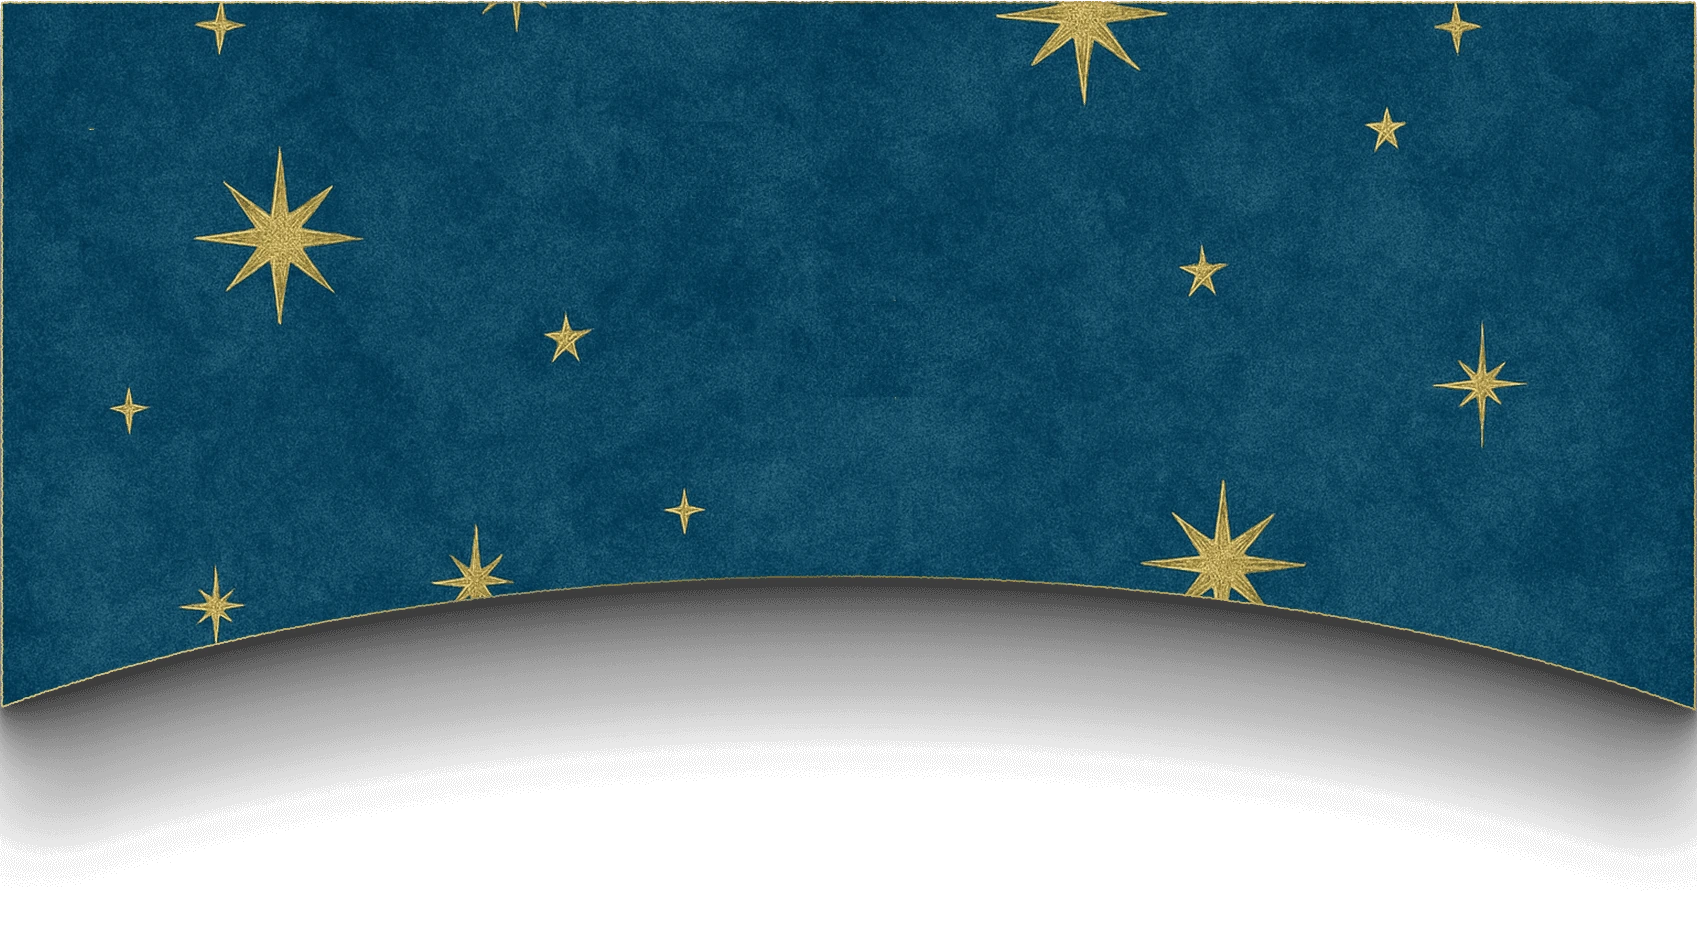
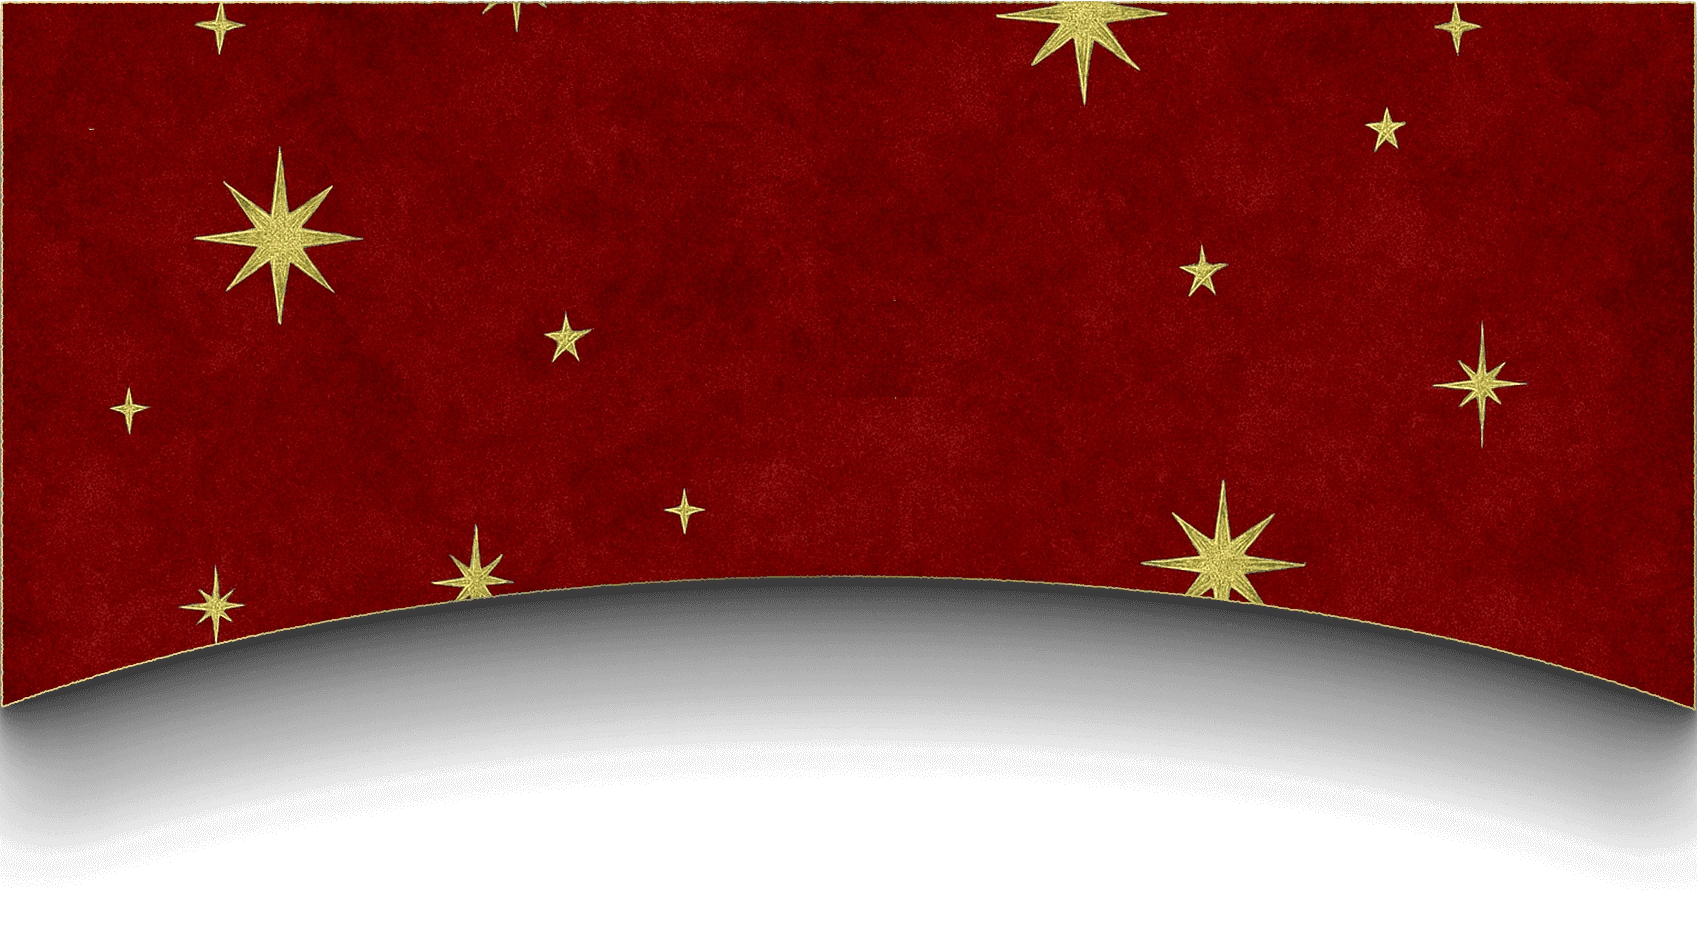
updated images and colors

diff --git a/src/components/ThingsKnow.jsx b/src/components/ThingsKnow.jsx
@@ -9,7 +9,7 @@ export default function ThingsKnow() {
     <div className="min-h-[200vh]  w-full h-fit max-md:h-[300vh] relative">
       <div className="h-full  w-full absolute inset-0">
         <Image
-          src="/img/purpleBg.avif"
+          src="/img/webp/purpleBg.webp"
           alt="seeTheRoute"
           width={1000}
           height={1000}
@@ -19,10 +19,10 @@ export default function ThingsKnow() {
 
       <div className="h-full w-full gap-[2vw] overflow-x-hidden max-md:gap-[10vw] py-[10vw] max-md:absolute max-md:top-[-4%] left-0 flex items-center justify-center flex-col relative ">
         <RotationComponent
-          wheelImage="https://framerusercontent.com/images/hs1j6Q8y9Mo9x9ueuW8MFIfK4.png?scale-down-to=2048&width=2168&height=2168"
-          centerImage="https://framerusercontent.com/images/KBiow1jmaeWHazxshSNGQ08lvw.png?width=1814&height=1814"
-          iconImage="https://framerusercontent.com/images/GUNxHDQlW7tXOiQkxIgQNaqyQVw.png?width=512&height=512"
-          textColor="text-secondary"
+          wheelImage="/img/webp/wheel2/redwheel-2.png"
+          centerImage="/img/webp/wheel2/yellow-cover.png"
+          iconImage="/img/webp/wheel2/red-design.png"
+          textColor="text-[#a20601]"
           title="Things to"
           titleLine2="know"
           subtitle="Click to open the map"
@@ -30,7 +30,7 @@ export default function ThingsKnow() {
 
         <div className="h-auto fadeup w-[7vw] max-md:w-[20vw] rounded-full aspect-square relative">
           <img
-            src="https://framerusercontent.com/images/BS00HRHT5NWobvzo4WjW9UA763g.png?width=380&height=380"
+            src="/img/webp/wheel3/yellow-design.png"
             alt="moon"
             width={1000}
             height={1000}
@@ -41,12 +41,12 @@ export default function ThingsKnow() {
           MEET THE
         </p> */}
         <Copy>
-          <p className="text-[#f6e1ba] text-center text60  leading-[.8] text-center">
+          <p className="text-primary text-center text60  leading-[1.2] text-center">
             Things to <br /> know
           </p>
         </Copy>
         <CopyLines>
-          <p className="text-[#f6e1ba] w-[60%] max-md:w-[90%] leading-[1.2] text-center text30">
+          <p className="text-primary w-[60%] max-md:w-[90%] leading-[1.2] text-center text30">
             To help you feel at ease and enjoy every moment of the celebrations,
             we’ve gathered a few thoughtful details we’d love for you to know
             before the big day.
@@ -56,25 +56,25 @@ export default function ThingsKnow() {
         <div className="w-[80%] flex items-center gap-[4vw] max-md:gap-[15vw] max-md:flex-col justify-center mt-[5vw]">
           {[
             {
-              icon: "/img/hastag.avif",
+              icon: "/img/webp/hastag.png",
               title: "Hashtag",
               description:
                 "Use #thebestmarathon to share your journey runners.",
             },
             {
-              icon: "/img/sun.avif",
+              icon: "/img/webp/sun.png",
               title: "Hashtag",
               description:
                 "Use #thebestmarathon to share your journey runners.",
             },
             {
-              icon: "/img/card.avif",
+              icon: "/img/webp/card.png",
               title: "Hashtag",
               description:
                 "Use #thebestmarathon to share your journey runners.",
             },
             {
-              icon: "/img/parking.avif",
+              icon: "/img/webp/parking.png",
               title: "Hashtag",
               description:
                 "Use #thebestmarathon to share your journey runners.",
@@ -82,7 +82,7 @@ export default function ThingsKnow() {
           ].map((item, index) => (
             <div
               key={index}
-              className="w-full !text-[#f6e1ba] fadeup text-center flex flex-col items-center justify-center"
+              className="w-full !text-primary fadeup text-center flex flex-col items-center justify-center"
             >
               <div className="w-[5vw] max-md:w-[25vw] h-auto ">
                 <Image
@@ -93,8 +93,8 @@ export default function ThingsKnow() {
                   className="w-full h-full object-contain"
                 />
               </div>
-              <p className="!text-[#f6e1ba] text30 mt-[.6vw]">{item.title}</p>
-              <p className="!text-[#f6e1ba] max-md:w-[60%] text18 leading-[.9] mt-[.5vw] w-[80%]">
+              <p className="!text-primary text30 mt-[.6vw]">{item.title}</p>
+              <p className="!text-primary max-md:w-[60%] text18 leading-[.9] mt-[.5vw] w-[80%]">
                 {item.description}
               </p>
             </div>

diff --git a/src/components/Swiper1.jsx b/src/components/Swiper1.jsx
@@ -20,9 +20,9 @@ export default function Swiper1() {
   return (
     <div className="h-auto w-full max-md:w-[200%] max-md:translate-x-[-25%] mt-[-5vw] relative">
       <img
-        src="https://framerusercontent.com/images/ZcRhO3OIg6FxXJGYnWlxDDJdt00.png?width=1123&height=1123"
+        src="/img/webp/red-swiper-frame.png"
         alt="background"
-        className="w-full h-full object-contain"
+        className="w-full h-full object-contain brightness-80"
       />
       <div className="h-[30vw] w-[24vw] max-md:w-[50vw] max-md:h-[65vw] rounded-full bg-zinc-900 overflow-hidden border-4 border-secondary swiperimages z-2 absolute top-[48.5%] left-1/2 -translate-x-1/2 -translate-y-1/2">
         <Swiper
@@ -54,7 +54,7 @@ export default function Swiper1() {
       {/* Custom Navigation Buttons */}
       <button
         onClick={() => swiper?.slidePrev()}
-        className="absolute left-[5%] cursor-pointer top-1/2 max-md:top-[85%] max-md:left-[32%] -translate-y-1/2 z-10 w-[4vw] max-md:w-[10vw] h-[4vw] max-md:h-[10vw] rounded-full bg-[#003f6b] text-white flex items-center justify-center hover:bg-opacity-80 transition-all duration-300 "
+        className="absolute left-[5%] cursor-pointer top-1/2 max-md:top-[85%] max-md:left-[32%] -translate-y-1/2 z-10 w-[4vw] max-md:w-[10vw] h-[4vw] max-md:h-[10vw] rounded-full bg-[#a20601] text-white flex items-center justify-center hover:bg-opacity-80 transition-all duration-300 "
       >
         <img
           src="/img/Unc/arrow.svg"
@@ -64,7 +64,7 @@ export default function Swiper1() {
       </button>
       <button
         onClick={() => swiper?.slideNext()}
-        className="absolute right-[5%] max-md:right-[32%] max-md:top-[85%] cursor-pointer top-1/2 -translate-y-1/2 z-10 max-md:w-[10vw] max-md:h-[10vw] w-[4vw] h-[4vw] rounded-full bg-[#003f6b] text-white flex items-center justify-center hover:bg-opacity-80 transition-all duration-300 "
+        className="absolute right-[5%] max-md:right-[32%] max-md:top-[85%] cursor-pointer top-1/2 -translate-y-1/2 z-10 max-md:w-[10vw] max-md:h-[10vw] w-[4vw] h-[4vw] rounded-full bg-[#a20601] text-white flex items-center justify-center hover:bg-opacity-80 transition-all duration-300 "
       >
         <img
           src="/img/Unc/arrow.svg"

diff --git a/src/components/SeeTheRoute.jsx b/src/components/SeeTheRoute.jsx
@@ -10,7 +10,7 @@ export default function SeeTheRoute() {
     <div className="min-h-[250vh] w-full h-fit relative max-md:flex max-md:flex-col max-md:justify-end max-md:min-h-[240vh] max-md:w-screen  ">
       <div className="h-full  w-full absolute inset-0">
         <Image
-          src="/img/greenbg.avif"
+          src="/img/webp/greenbg.webp"
           alt="seeTheRoute"
           width={1000}
           height={1000}
@@ -23,7 +23,7 @@ export default function SeeTheRoute() {
 
         <div className="h-auto fadeup w-[7vw] rounded-full aspect-square relative">
           <img
-            src="https://framerusercontent.com/images/NmVSVg1aTrcYbgmRoP9eOE9gpw.png?width=372&height=372"
+            src="/img/webp/wheel1/red-design.png"
             alt="moon"
             width={1000}
             height={1000}
@@ -31,17 +31,17 @@ export default function SeeTheRoute() {
           />
         </div>
         <Copy>
-          <p className="text-secondary text-[3vw] max-md:text-[8vw] font-normal ">
+          <p className="text-[#a20601] text-[3vw] max-md:text-[8vw] font-normal ">
             MEET THE
           </p>
         </Copy>
         <Copy>
-          <p className="text-secondary text60 font-thin max-md:mt-[5vw] leading-[.8] text-center">
+          <p className="text-[#a20601] text60 font-thin max-md:mt-[5vw] leading-[.8] text-center">
             Bride & <br /> Groom
           </p>
         </Copy>
         <CopyLines>
-          <p className="text-secondary w-[45%] mt-[1vw] max-md:mt-[5vw] leading-[1.2]  max-md:w-[80%] font-semibold  text-center text18">
+          <p className="text-[#a20601] w-[45%] mt-[1vw] max-md:mt-[5vw] leading-[1.2]  max-md:w-[80%] font-semibold  text-center text18">
             We are both so delighted that you are able to join us in celebrating
             what we hope will be one of the happiest days of our lives. The
             affection shown to us by so many people since our roka has been

diff --git a/src/components/Footer.jsx b/src/components/Footer.jsx
@@ -11,7 +11,7 @@ export default function Footer() {
     <div className="min-h-[160vh] max-md:min-h-[160vh] max-md:justify-end max-md:pb-[15vh] flex flex-col py-[5vw] items-center justify-between w-full relative">
       <div className="h-full w-full absolute inset-0">
         <Image
-          src="/img/yellowbg.avif"
+          src="/img/webp/yellowbg.webp"
           alt="seeTheRoute"
           width={1000}
           height={1000}
@@ -24,10 +24,10 @@ export default function Footer() {
         <RotationComponent
           scale="max-md:scale-200"
           isScale={true}
-          wheelImage="/img/yellowwheel.avif"
-          centerImage="/img/yellowbglayer.avif"
-          iconImage="https://framerusercontent.com/images/BS00HRHT5NWobvzo4WjW9UA763g.png?width=380&height=380"
-          textColor="text-[#dfdac1]"
+          wheelImage="/img/webp/wheel3/yellowwheel.png"
+          centerImage="/img/webp/wheel3/yellowbglayer.png"
+          iconImage="/img/webp/wheel3/yellow-design.png"
+          textColor="text-primary"
           title="The countdown"
           titleLine2="route"
           subtitle="Click to open the map"
@@ -36,7 +36,7 @@ export default function Footer() {
 
       {/* Section 2 - Footer Content */}
       <div className="h-fit w-full flex items-center justify-center relative">
-        <div className="flex flex-col space-y-[2vw] max-md:space-y-[5vw] text-[#451173] font-serif items-center justify-center w-[50%] max-md:w-[90%]">
+        <div className="flex flex-col space-y-[2vw] max-md:space-y-[5vw] text-[#a20601] font-serif items-center justify-center w-[50%] max-md:w-[90%]">
           <CopyLines>
             <p className="text40 w-[100%] max-md:w-[100%] font-cormorant-upright leading-[1.2] text-center">
               The countdown begins

diff --git a/src/components/Events.jsx b/src/components/Events.jsx
@@ -62,7 +62,7 @@ export default function Events() {
     <div className="min-h-[100vh]  max-md:pt-[15vh] max-md:mt-[-1vh] h-fit w-full pb-[30vh] max-md:pb-[15vh] overflow-x-hidden overflow-hidden py-[4vw] max-md:py-[8vw] relative">
       <div className="h-full w-full absolute inset-0">
         <Image
-          src="/img/bluebg.avif"
+          src="/img/webp/bluebg.webp"
           width={1000}
           height={1000}
           alt=""
@@ -121,13 +121,13 @@ export function EventCard({ event }) {
       </div>
       <div className="relative fadeup">
         <p className="text40 font-semibold tracking-tight">{event.title}</p>
-        <p className="text12 font-semibold leading-[1.1]">
+        <p className="text18 font-semibold leading-[1.1]">
           {event.date}
         </p>
-        <p className="text12 font-semibold leading-[1.1]">
+        <p className="text18 font-semibold leading-[1.1]">
           {event.venue}
         </p>
-        <p className="text12 font-semibold leading-[1.1]">{event.time}</p>
+        <p className="text18 font-semibold leading-[1.1]">{event.time}</p>
       
       </div>
     </div>

diff --git a/src/components/RotationComponent.jsx b/src/components/RotationComponent.jsx
@@ -11,8 +11,8 @@ gsap.registerPlugin(ScrollTrigger);
 export default function RotationComponent({
   scale = "scale-100",
   isScale = false,
-  wheelImage = "https://framerusercontent.com/images/j8rC7lVmTCtjwjX0xagtMTxz38.png?scale-down-to=2048&width=2168&height=2168",
-  centerImage = "https://framerusercontent.com/images/gpuyLKzQFz8PbRrE1RR3LfnRWw.png?width=1814&height=1814",
+  wheelImage = "/img/webp/wheel1/yellowwheel-1.png",
+  centerImage = "/img/webp/wheel1/red-cover.png",
   iconImage = "https://framerusercontent.com/images/FMx33N0QNZEN9o98413jFSazlw.png?width=585&height=586",
   textColor = "text-primary",
   title = "See the",

diff --git a/src/components/HeroSection.jsx b/src/components/HeroSection.jsx
@@ -11,9 +11,10 @@ export default function HeroSection() {
   return (
     <div className="h-[80vh] overflow-hidden max-md:h-[60vh] z-999 w-full relative">
       <img
-        src={isTablet ? "img/blue_Star_Bg2.png" : "img/blue_Star_Bg3.png"}
+        src={isTablet ? "img/webp/blue_Star_Bg2.webp" : "img/webp/blue_Star_Bg3.webp"}
         alt="background"
-        className="w-full h-full object-cover"
+        className="w-full h-full object-cover brightness-80"
+
       />
 
       <div className="absolute top-[-15%] left-1/2 -translate-x-1/2 h-full w-full flex flex-col items-center justify-center">

diff --git a/src/components/Section3.jsx b/src/components/Section3.jsx
@@ -8,7 +8,7 @@ export default function Section3() {
     <div className="h-[200vh] max-md:h-fit max-md:min-h-[100vh] max-md:py-[10vh] w-full overflow-hidden py-[4vw] relative">
       <div className="h-full w-full absolute inset-0">
         <img
-          src="https://framerusercontent.com/images/SPr0bvMk9Lu3lQOpXzLoknBPaJo.png?width=1596&height=4794"
+          src="/img/webp/bluebg.webp"
           alt=""
           className="w-full h-full object-cover"
         />

diff --git a/src/app/page.js b/src/app/page.js
@@ -14,7 +14,7 @@ import Decorative from "@/components/Decorative";
 export default function page() {
   return (
     <>
-     <Loader/>
+     {/* <Loader/> */}
       <HeroSection />
       <Decorative/>
       <Sound />
